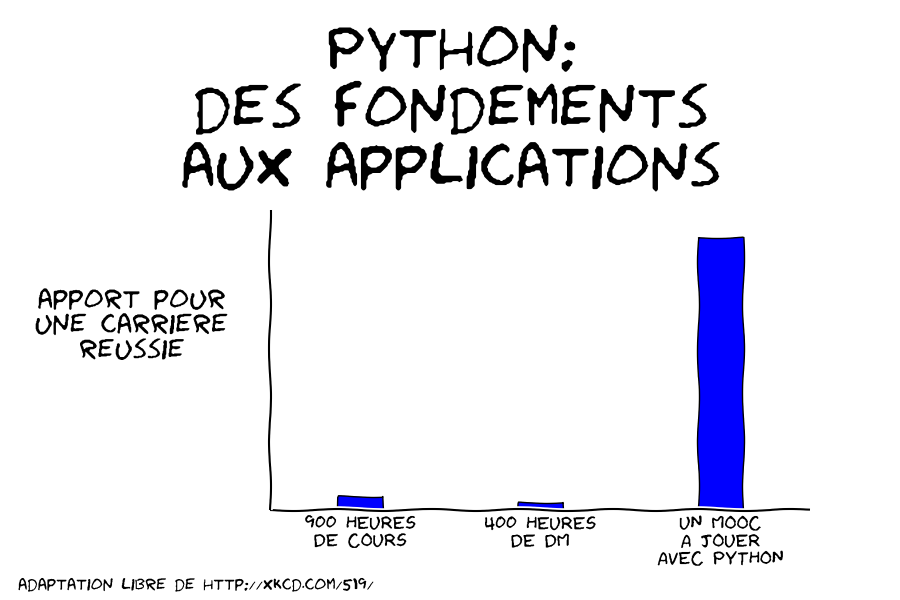
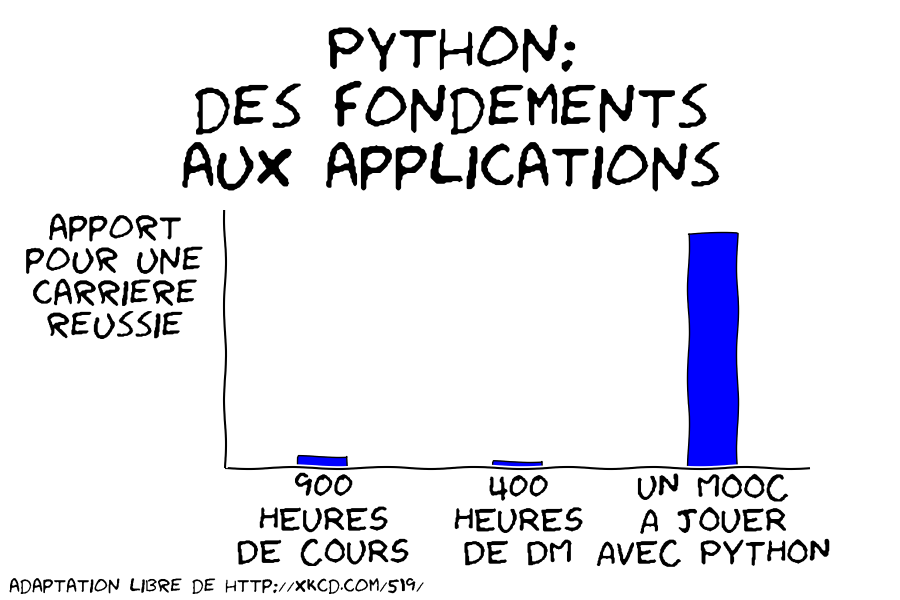
plus lisible j'espere une version en 220x147 qui semble etre ce qui est publie sur FUN

diff --git a/00-teaser/xkcd.py b/00-teaser/xkcd.py
@@ -13,10 +13,10 @@ plt.xkcd()
 my_dpi=80
 fig = plt.figure(dpi=my_dpi,figsize=(9,6))
 
-fig.subplots_adjust(left=0.30,top=0.65,bottom=0.15)
+fig.subplots_adjust(left=0.25,bottom=0.22,top=0.65)
 
-fig.text(0.02,0.02,"adaptation libre de http://xkcd.com/519/",
-         fontsize=12,ha='left')
+fig.text(0.01,0.01,"adaptation libre de http://xkcd.com/519/",
+         fontsize=14,ha='left',va='bottom')
 
 fig.text(0.5,0.82,"Python:\ndes fondements\naux applications",
          fontsize=45, ha='center',va='center')
@@ -34,21 +34,27 @@ ax.bar([i-0.125 for i in range(3)], [5, 3, 100], 0.25)
 ax.xaxis.set_ticks_position('bottom')
 ax.tick_params(size=0)
 ax.set_xticks([0, 1, 2])
-ax.set_xticklabels(["900 HEURES\nDE COURS", 
-                    "400 HEURES\nDE DM", 
+ax.set_xticklabels(["900\nHEURES\nDE COURS", 
+                    "400\nHEURES\nDE DM", 
                     "UN MOOC\nA JOUER\nAVEC PYTHON"])
+for tick in ax.xaxis.get_major_ticks():
+    tick.label.set_fontsize(26) 
 plt.yticks([])
-ax.set_ylabel("apport pour\nune carriere\nreussie",
+ax.set_ylabel("apport\npour une\ncarriere\nreussie",
               rotation='horizontal',
-              labelpad=100,
-              fontsize=20)
+              labelpad=80,
+              fontsize=26)
 
 
 fig.savefig('xkcd.png')
 
 ## the pictures I can see on FUN are 220 x 147
-#(tx,ty)=(220,147)
-#fig.set_size_inches (tx/my_dpi,ty/my_dpi)
-#fig.savefig('xkcd-small.png')
+# the wet finger technique...
+# this does produce a 220x147 output but the fonts are not resized accordingly...
+# so do this under preview & adjust size...
+#h=1.47
+#fig.set_size_inches (h*1.5,h)
+#fig.savefig('xkcd-220x147.png')
+fig.savefig('xkcd-220x147.png')
 
 plt.show()
